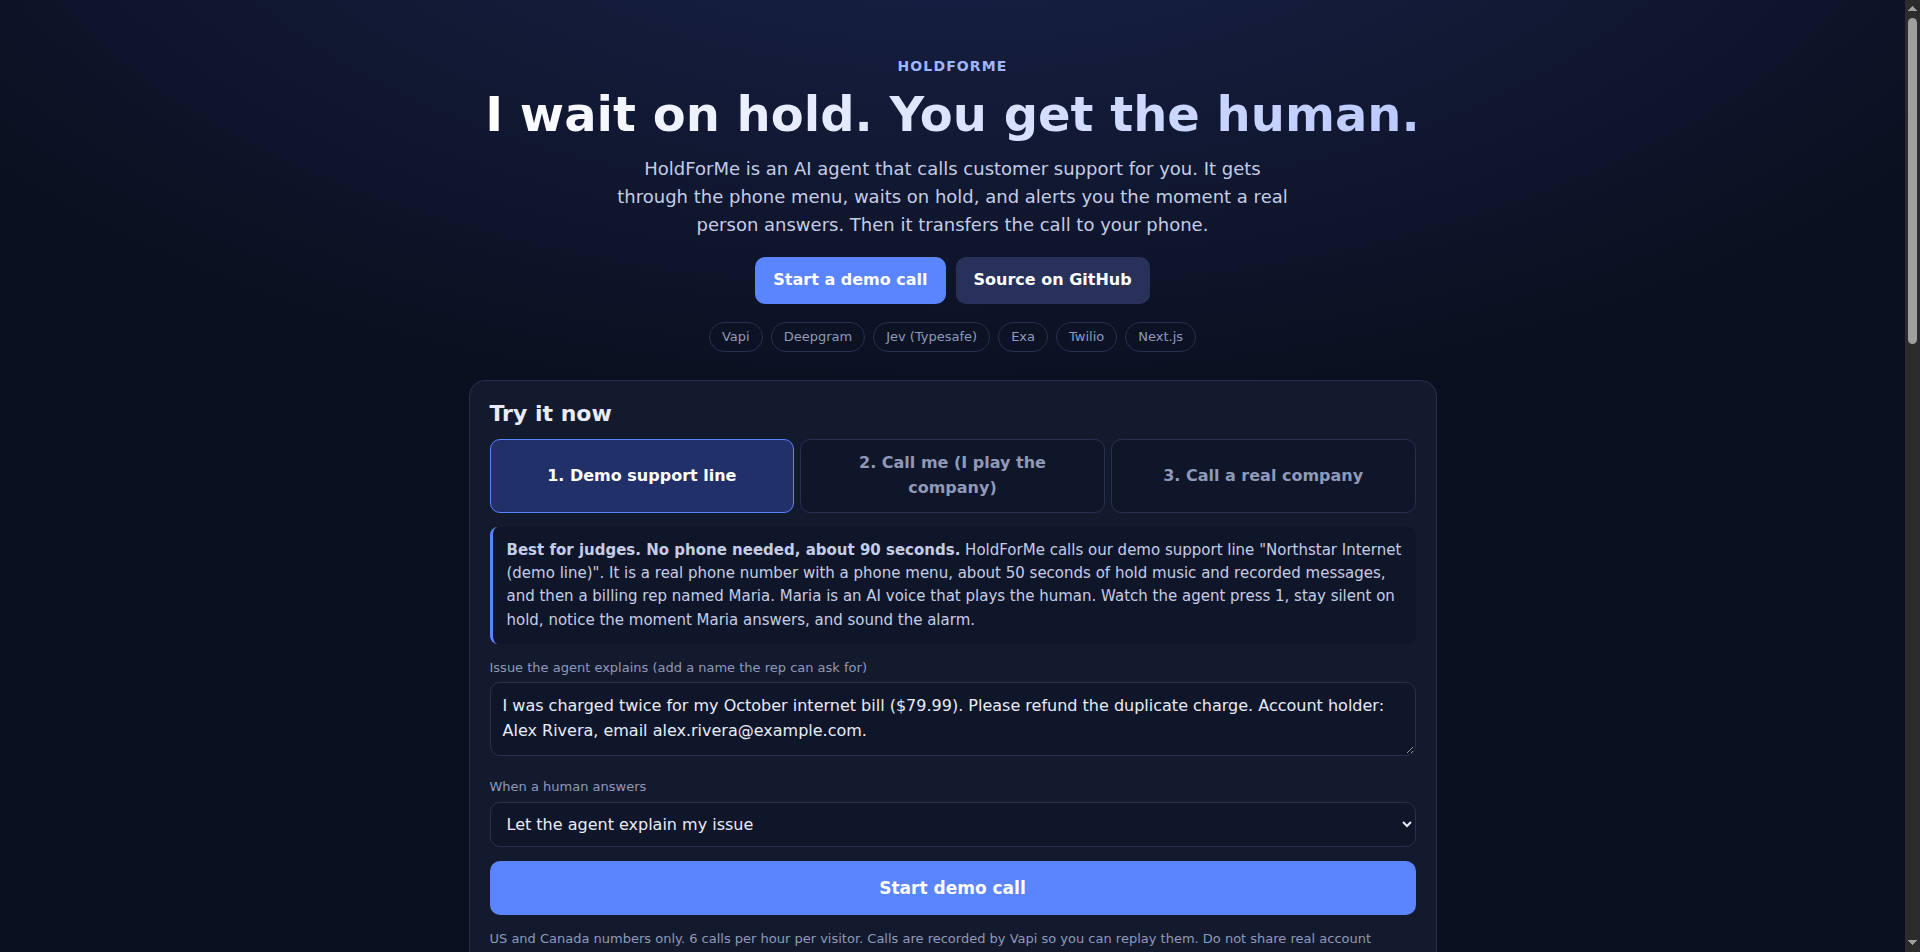
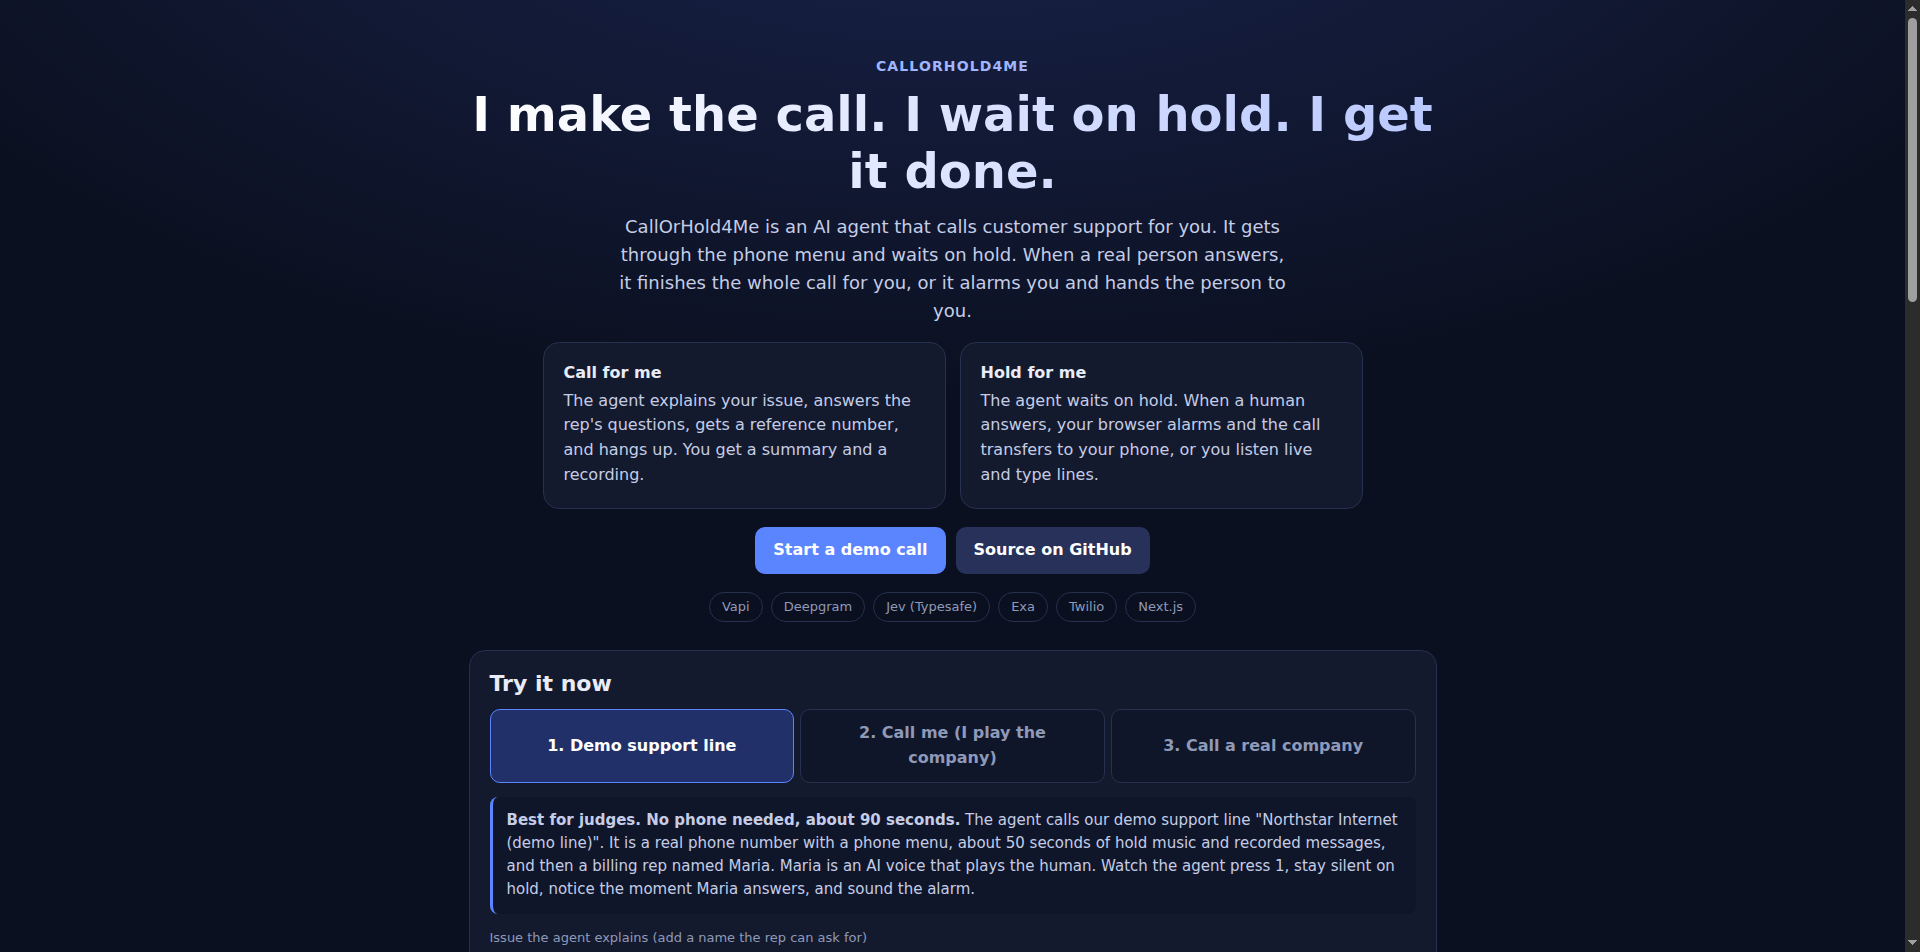
Readable CallOrHold4Me brand; refresh home screenshot

Changed region(s): [[0.25, 0.0609, 0.75, 0.6702], [0.25, 0.7006, 0.75, 1.0], [0.9688, 0.3351, 1.0, 0.3655]]

diff --git a/app/globals.css b/app/globals.css
@@ -16,7 +16,7 @@ p { margin: 0 0 10px; }
 
 /* Hero */
 .hero { text-align: center; padding: 24px 0 8px; }
-.brand { font-weight: 800; letter-spacing: .08em; text-transform: uppercase; color: #9fb6ff; font-size: 14px; }
+.brand { font-weight: 800; letter-spacing: .02em; color: #9fb6ff; font-size: 22px; }
 .hero h1 { font-size: clamp(30px, 6vw, 48px); margin: 8px 0 12px; background: linear-gradient(90deg, #fff, #b9c8ff); -webkit-background-clip: text; background-clip: text; color: transparent; }
 .lead { max-width: 680px; margin: 0 auto 18px; color: #c5cde6; font-size: 18px; }
 .cta { display: flex; gap: 10px; justify-content: center; flex-wrap: wrap; }
